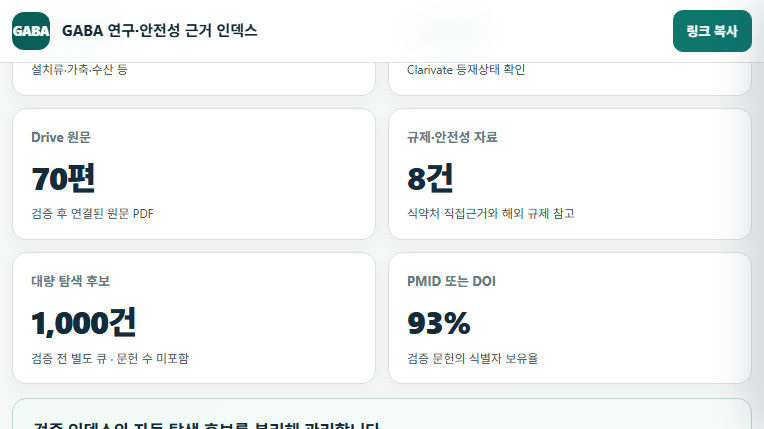
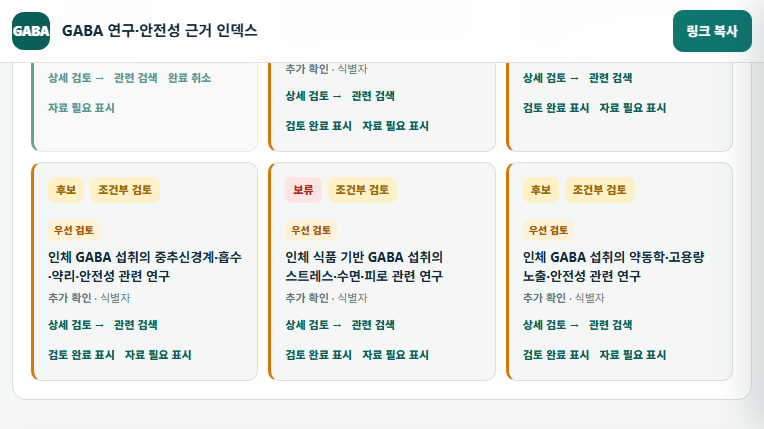
Restore shared search state on browser navigation

Changed region(s): [[0.0301, 0.1515, 0.9634, 0.9394], [0.0301, 0.9697, 0.5118, 1.0], [0.9332, 0.2424, 0.9634, 0.2727]]

diff --git a/dist/server/index.js b/dist/server/index.js
@@ -2002,11 +2002,22 @@ const PAGE_TEMPLATE = String.raw`<!doctype html>
 
       function loadUrlState() {
         var params = new URLSearchParams(location.search);
+        state = {
+          q: "", kind: "", category: "", effectCategory: "", status: "", sci: "", species: "", topic: "",
+          grade: "", agency: "", safetyArea: "", extraction: "", direction: "", source: "", from: DB.meta.minYear,
+          to: DB.meta.maxYear, sort: "latest", page: 1
+        };
+        pageSize = 20;
         ["q", "kind", "category", "effectCategory", "status", "grade", "agency", "safetyArea", "sci", "species", "topic", "extraction", "direction", "source", "sort"].forEach(function (key) {
           if (params.has(key)) state[key] = params.get(key) || "";
         });
         if (params.has("from")) state.from = Math.max(DB.meta.minYear, Number(params.get("from")) || DB.meta.minYear);
         if (params.has("to")) state.to = Math.min(DB.meta.maxYear, Number(params.get("to")) || DB.meta.maxYear);
+        if (state.from > state.to) {
+          var boundedFrom = state.from;
+          state.from = state.to;
+          state.to = boundedFrom;
+        }
         if (["20", "50", "100"].includes(params.get("pageSize"))) pageSize = Number(params.get("pageSize"));
         urlRecordId = params.get("record") || "";
       }
@@ -2824,6 +2835,15 @@ const PAGE_TEMPLATE = String.raw`<!doctype html>
       syncControls();
       render();
       if (urlRecordId) openIntelligenceDetail(urlRecordId);
+
+      window.addEventListener("popstate", function () {
+        var detailWasOpen = el("intelligence-detail").open;
+        loadUrlState();
+        syncControls();
+        render();
+        if (urlRecordId) openIntelligenceDetail(urlRecordId);
+        else if (detailWasOpen) closeIntelligenceDetail();
+      });
 
       var searchTimer;
       controls.q.addEventListener("input", function () {

diff --git a/worker/template.js b/worker/template.js
@@ -2002,11 +2002,22 @@ const PAGE_TEMPLATE = String.raw`<!doctype html>
 
       function loadUrlState() {
         var params = new URLSearchParams(location.search);
+        state = {
+          q: "", kind: "", category: "", effectCategory: "", status: "", sci: "", species: "", topic: "",
+          grade: "", agency: "", safetyArea: "", extraction: "", direction: "", source: "", from: DB.meta.minYear,
+          to: DB.meta.maxYear, sort: "latest", page: 1
+        };
+        pageSize = 20;
         ["q", "kind", "category", "effectCategory", "status", "grade", "agency", "safetyArea", "sci", "species", "topic", "extraction", "direction", "source", "sort"].forEach(function (key) {
           if (params.has(key)) state[key] = params.get(key) || "";
         });
         if (params.has("from")) state.from = Math.max(DB.meta.minYear, Number(params.get("from")) || DB.meta.minYear);
         if (params.has("to")) state.to = Math.min(DB.meta.maxYear, Number(params.get("to")) || DB.meta.maxYear);
+        if (state.from > state.to) {
+          var boundedFrom = state.from;
+          state.from = state.to;
+          state.to = boundedFrom;
+        }
         if (["20", "50", "100"].includes(params.get("pageSize"))) pageSize = Number(params.get("pageSize"));
         urlRecordId = params.get("record") || "";
       }
@@ -2824,6 +2835,15 @@ const PAGE_TEMPLATE = String.raw`<!doctype html>
       syncControls();
       render();
       if (urlRecordId) openIntelligenceDetail(urlRecordId);
+
+      window.addEventListener("popstate", function () {
+        var detailWasOpen = el("intelligence-detail").open;
+        loadUrlState();
+        syncControls();
+        render();
+        if (urlRecordId) openIntelligenceDetail(urlRecordId);
+        else if (detailWasOpen) closeIntelligenceDetail();
+      });
 
       var searchTimer;
       controls.q.addEventListener("input", function () {
